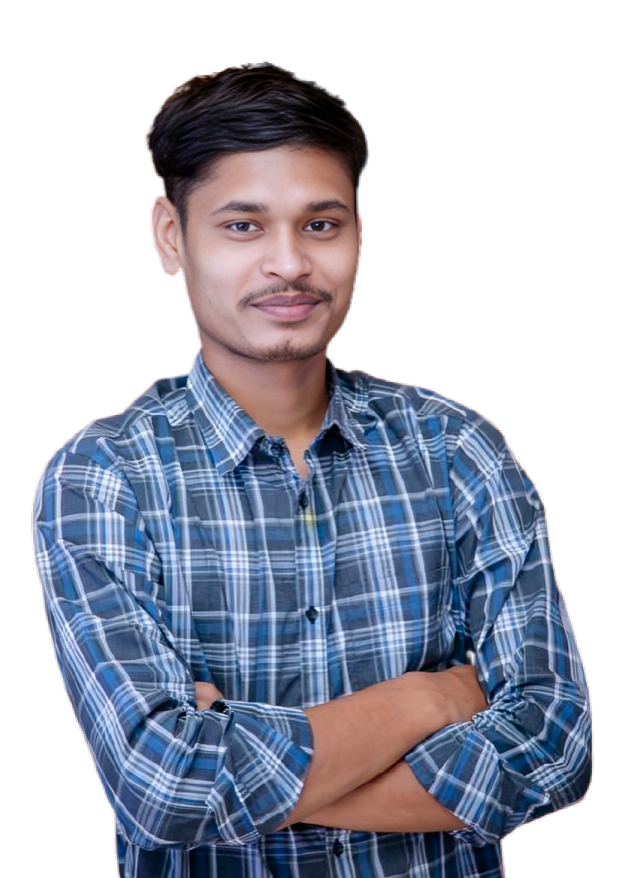
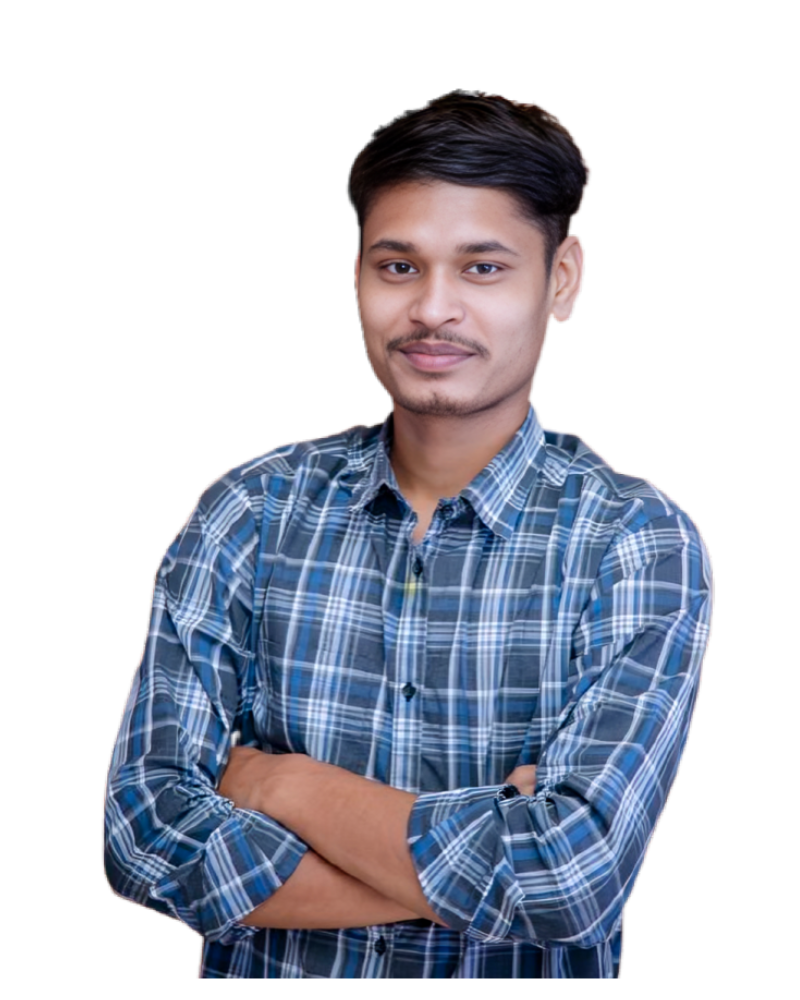
complete hero area design

diff --git a/client/src/components/HeroArea.jsx b/client/src/components/HeroArea.jsx
@@ -4,15 +4,15 @@ import { LuDownload } from "react-icons/lu";
 
 const HeroArea = () => {
   return (
-    <div className="container  min-h-[85vh]   flex items-top justify-between lg:px-48   gap-x-2  lg:mt-36">
+    <div className="container  min-h-[85vh]   flex items-top justify-between lg:px-38   gap-x-2  lg:mt-26">
       <div className="w-3/5">
         <h3 className="text-lg font-medium text-purple-400">
           Web Developer (MERN) || Bridging Frontend Beauty with Backend Power
         </h3>
         <h1 className="text-3xl sm:text-4xl md:text-5xl xl:text-6xl font-bold bg-gradient-to-r from-blue-400 to-purple-500 bg-clip-text text-transparent my-6">
-          Hi, I'm Prodip Rajbongshi
+          Hi, I'm Prodip <br /> Rajbongshi
         </h1>
-        <p className="text-base sm:text-lg md:text-xl text-gray-300 leading-relaxed">
+        <p className="text-base sm:text-lg md:text-xl text-gray-300 leading-tight w-[80%]  ">
           I specialize in building{" "}
           <span className="text-purple-400 font-bold">
             high-performance web applications
@@ -21,7 +21,7 @@ const HeroArea = () => {
           experience, I deliver production-ready solutions using modern
           technologies and best development practices...
         </p>
-        <div className="flex flex-wrap gap-3 justify-center lg:justify-start my-10">
+        <div className="flex flex-wrap gap-3 justify-center lg:justify-start my-10 w-[80%]">
           <span
             className="px-4 py-2 bg-white/5 rounded-full text-sm text-gray-300 hover:bg-white/10 transition-all relative group cursor-pointer"
             title="Expert proficiency"
@@ -59,6 +59,13 @@ const HeroArea = () => {
           </span>
           <span
             className="px-4 py-2 bg-white/5 rounded-full text-sm text-gray-300 hover:bg-white/10 transition-all relative group cursor-pointer"
+            title="Expert proficiency"
+          >
+            Bootstrap
+            <span className="absolute -bottom-1 -right-1 w-2 h-2 bg-green-400 rounded-full opacity-0 group-hover:opacity-100"></span>
+          </span>
+          <span
+            className="px-4 py-2 bg-white/5 rounded-full text-sm text-gray-300 hover:bg-white/10 transition-all relative group cursor-pointer"
             title="Intermediate proficiency"
           >
             Express.js
@@ -87,18 +94,18 @@ const HeroArea = () => {
         </p>
       </div>
       <div className="w-2/5">
-        <div className="relative">
+        <div className="relative flex items-center justify-center bg-[#1C2232] rounded-xl cursor-pointer hover:shadow-2xl transition-all duration-300">
           <img
             src="/ProdipRajbongshi.png"
             alt="Profile Picture"
             className="w-full object-cover"
             style={{
               WebkitMaskImage:
-                "linear-gradient(to bottom, black 85%, transparent 100%)",
+                "linear-gradient(to bottom, black 40%, transparent 100%)",
               WebkitMaskRepeat: "no-repeat",
-              WebkitMaskSize: "100% 100%",
+              WebkitMaskSize: "100% 95%",
               maskImage:
-                "linear-gradient(to bottom, black 85%, transparent 100%)",
+                "linear-gradient(to bottom, black 40%, transparent 100%)",
               maskRepeat: "no-repeat",
               maskSize: "100% 100%",
             }}
@@ -116,3 +123,4 @@ const HeroArea = () => {
 };
 
 export default HeroArea;
+
